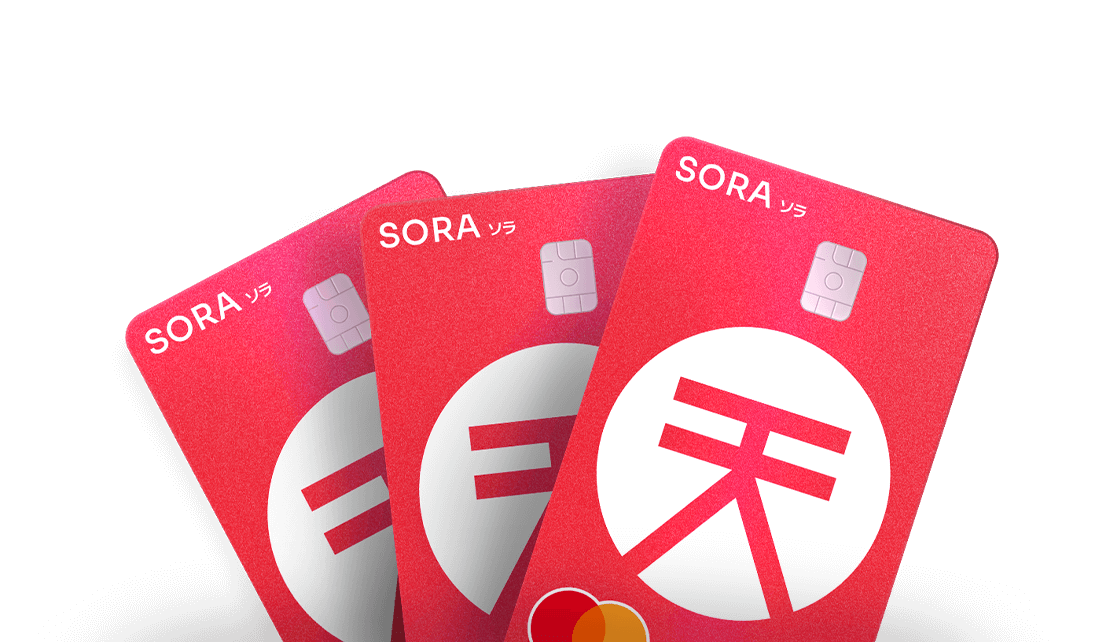
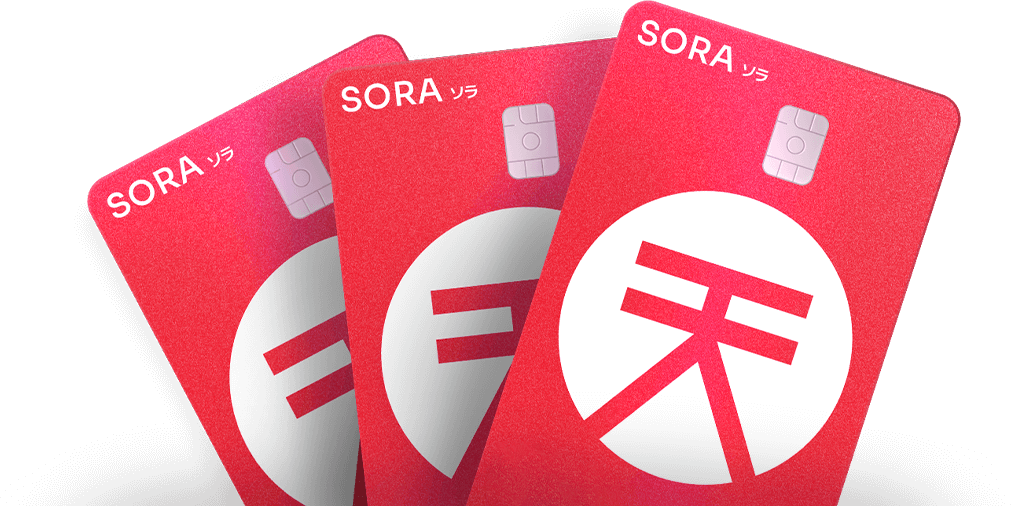
change images

diff --git a/src/components/SoraCard/SoraCardIntroPage.vue b/src/components/SoraCard/SoraCardIntroPage.vue
@@ -277,8 +277,8 @@ export default class SoraCardIntroPage extends Mixins(mixins.LoadingMixin, Trans
   }
 
   &__image {
-    margin-top: -56px;
-    height: 311px;
+    margin-top: -48px;
+    height: 262px;
   }
 
   &__balance-indicator {
